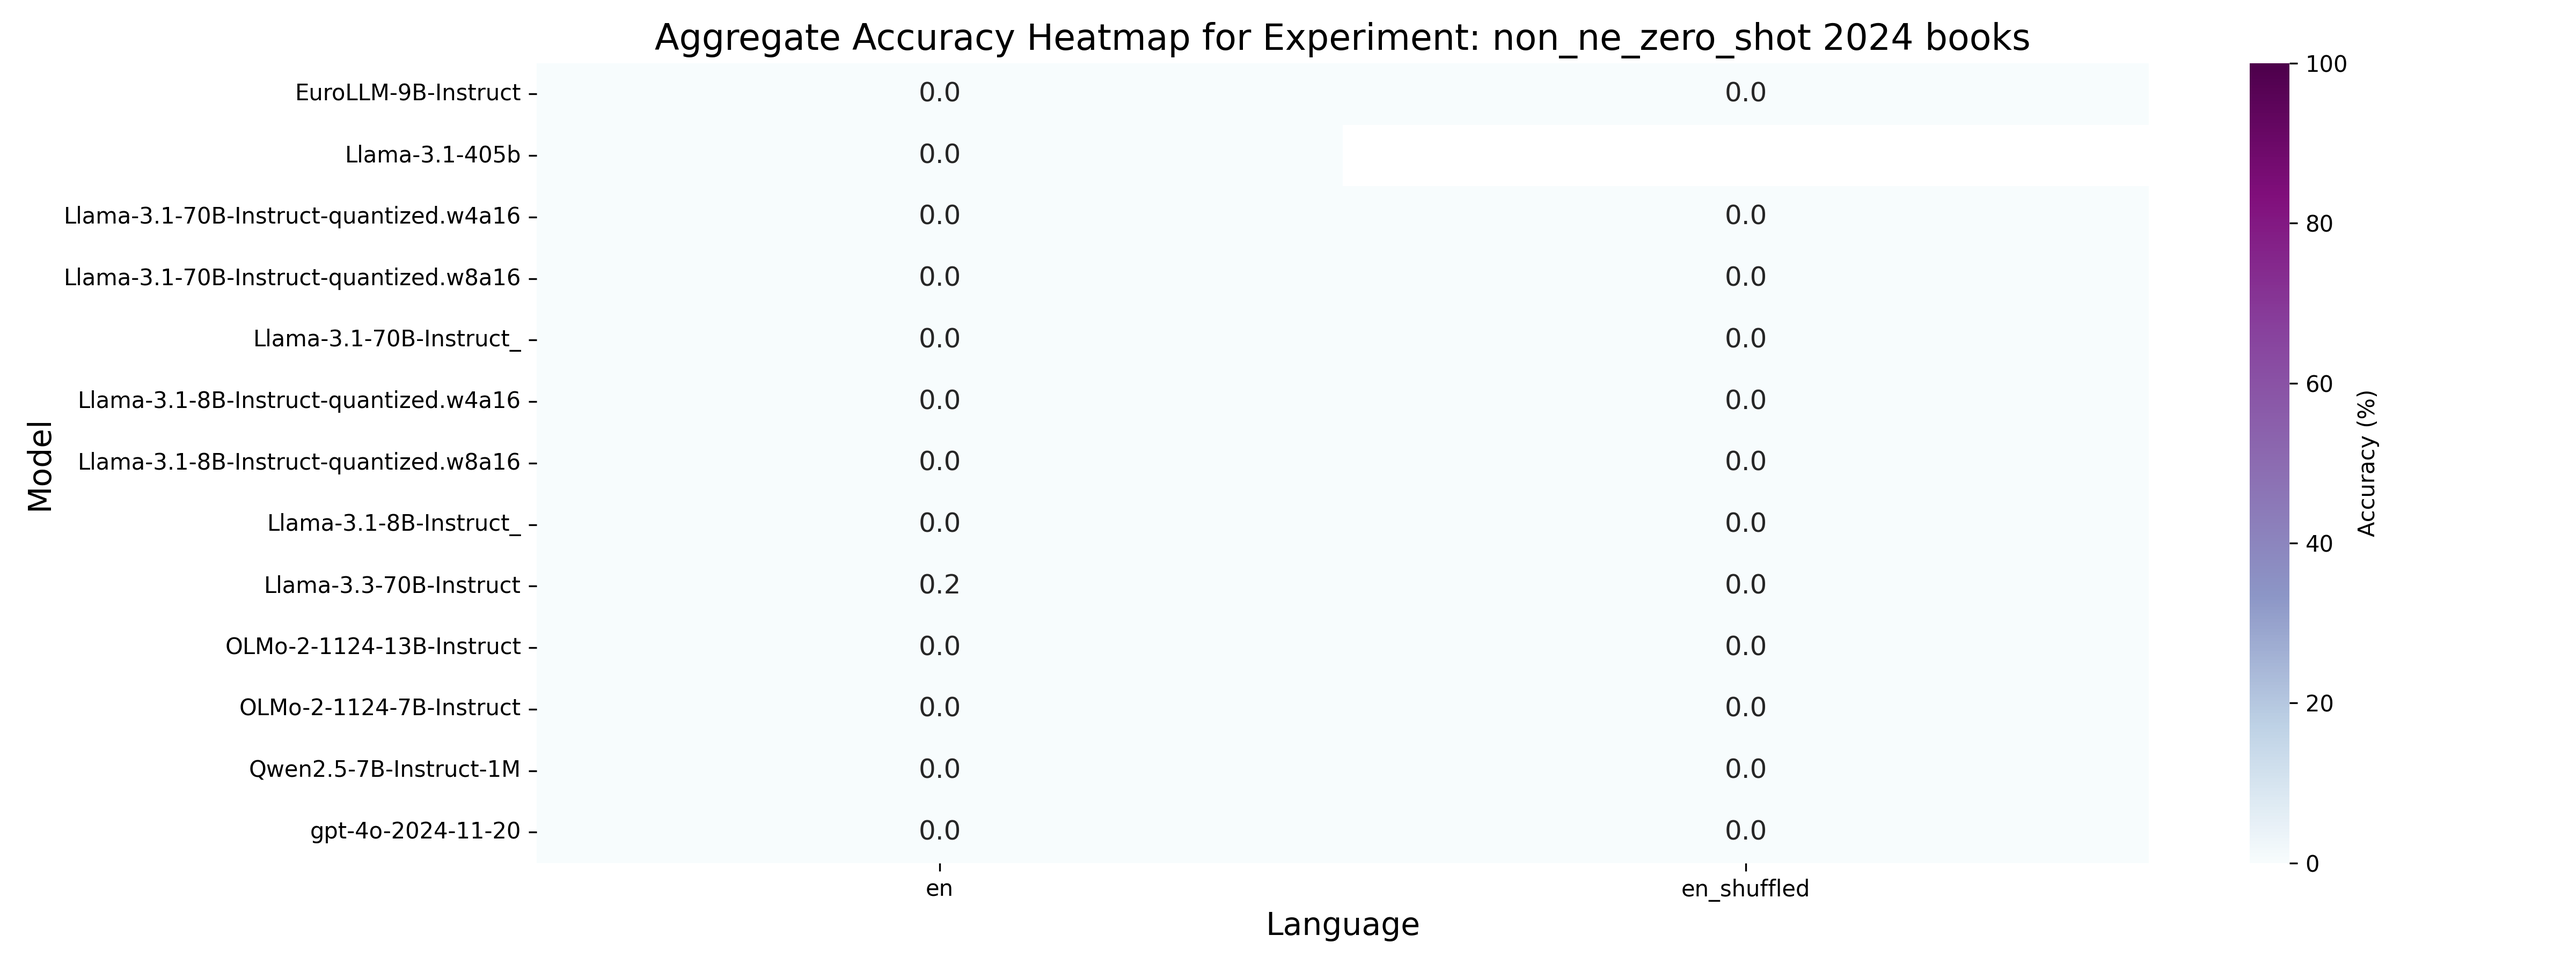
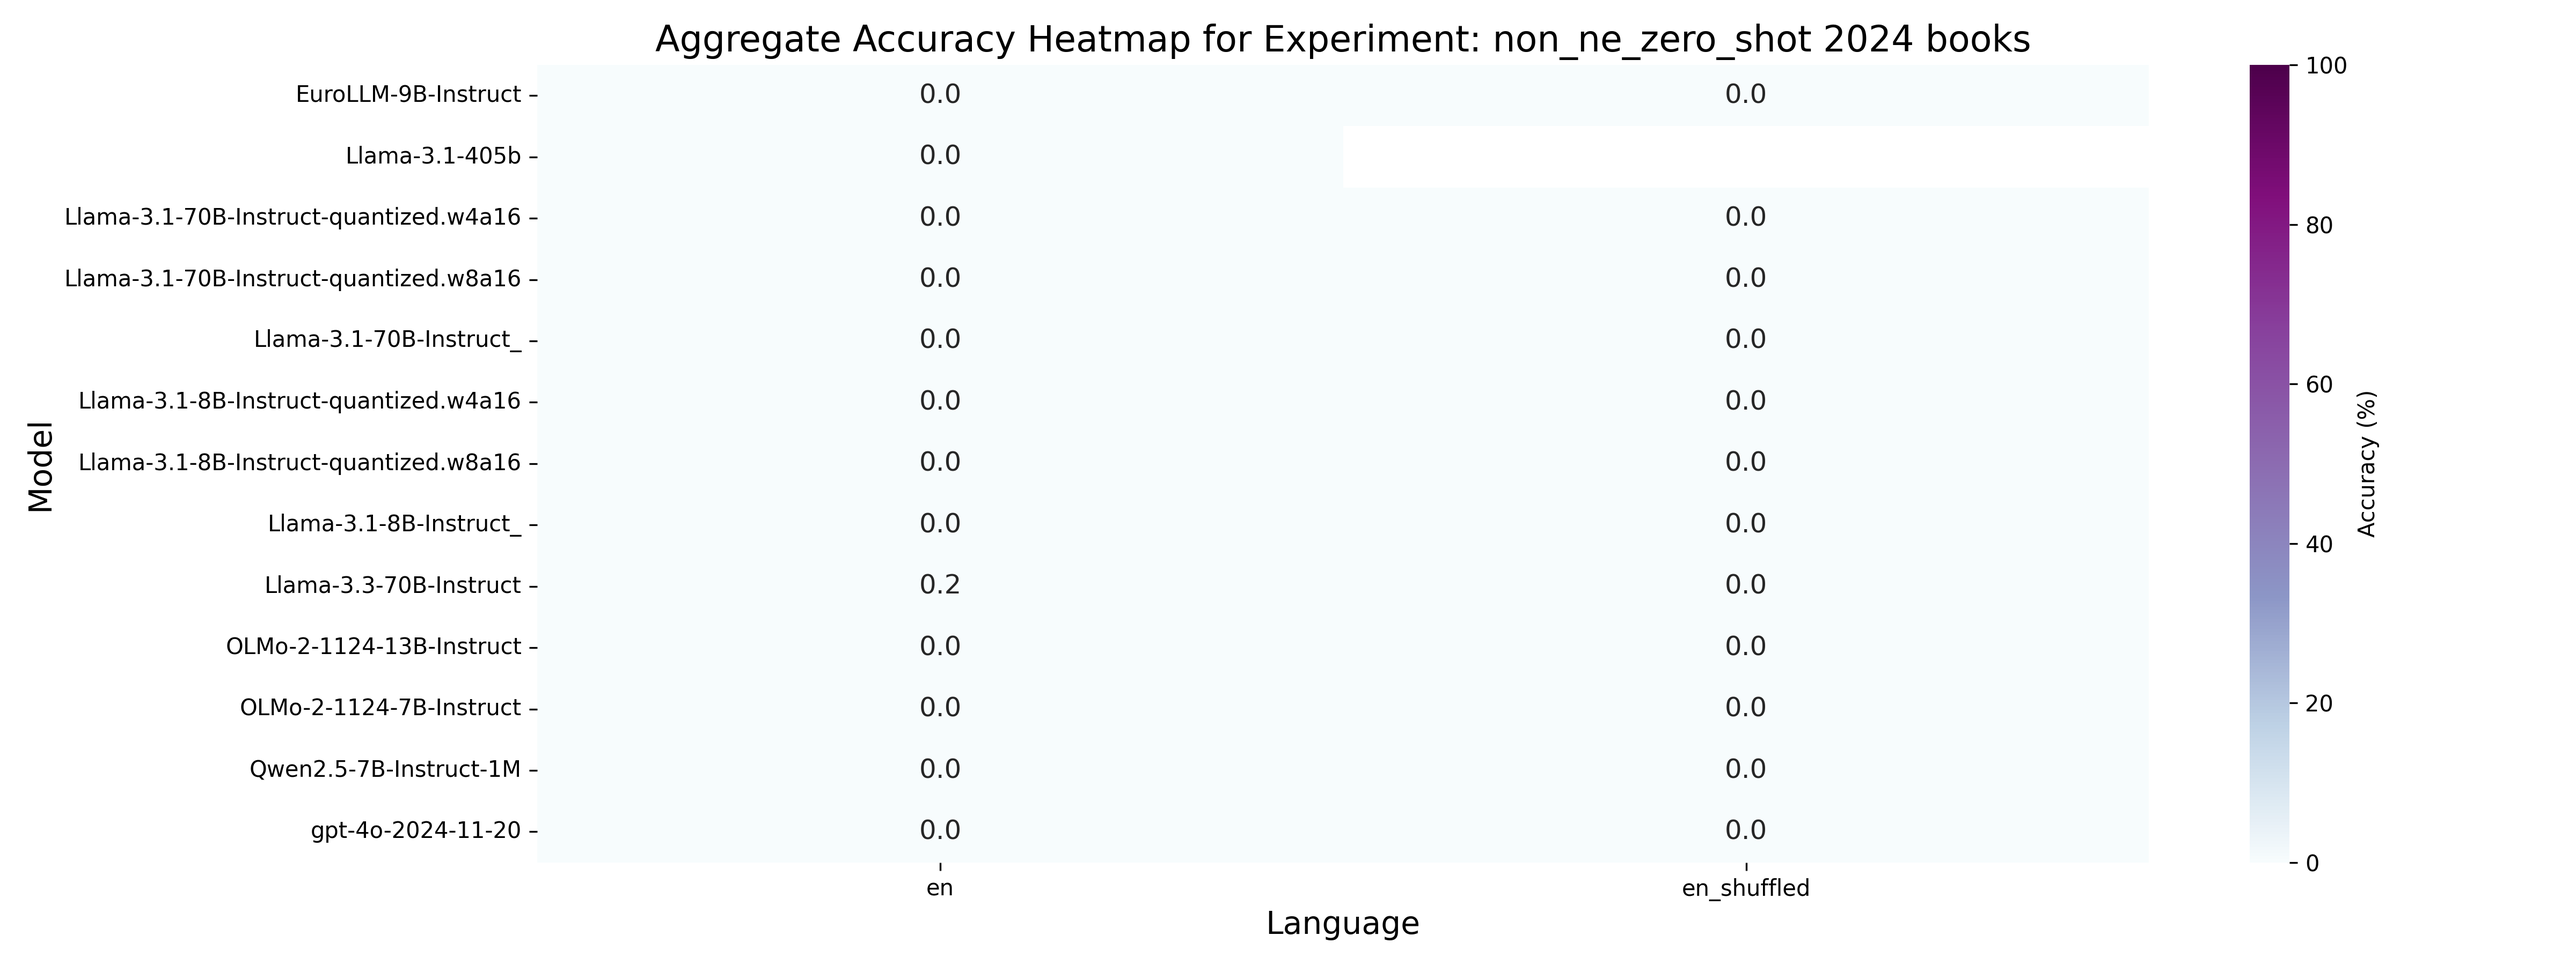
moddified aggregate dp heatmaps

diff --git a/scripts/Evaluation/analyses_graph/direct_probe/scripts/overall_heatmap.py b/scripts/Evaluation/analyses_graph/direct_probe/scripts/overall_heatmap.py
@@ -6,12 +6,12 @@ from matplotlib.colors import LinearSegmentedColormap
 
 # 📂 List of CSV files (modify this to include all your files)
 CSV_FILES = [
-    "scripts/Evaluation/analyses_graph/direct_probe/shuffled/os_shuffled_ne_aggregate_data_grouped.csv",
-    "scripts/Evaluation/analyses_graph/direct_probe/shuffled/os_shuffled_masked_aggregate_data_grouped.csv",
-    "scripts/Evaluation/analyses_graph/direct_probe/shuffled/os_shuffled_non_ne_aggregate_data_grouped.csv",
-    "scripts/Evaluation/analyses_graph/direct_probe/shuffled/zs_shuffled_ne_aggregate_data_grouped.csv",
-    "scripts/Evaluation/analyses_graph/direct_probe/shuffled/zs_shuffled_masked_aggregate_data_grouped.csv",
-    "scripts/Evaluation/analyses_graph/direct_probe/shuffled/zs_shuffled_non_ne_aggregate_data_grouped.csv"
+    "scripts/Evaluation/analyses_graph/direct_probe/og/os_ne_aggregate_data_grouped.csv",
+    "scripts/Evaluation/analyses_graph/direct_probe/og/os_masked_aggregate_data_grouped.csv",
+    "scripts/Evaluation/analyses_graph/direct_probe/og/os_non_ne_aggregate_data_grouped.csv",
+    "scripts/Evaluation/analyses_graph/direct_probe/og/zs_ne_aggregate_data_grouped.csv",
+    "scripts/Evaluation/analyses_graph/direct_probe/og/zs_masked_aggregate_data_grouped.csv",
+    "scripts/Evaluation/analyses_graph/direct_probe/og/zs_non_ne_aggregate_data_grouped.csv"
 ]
 
 # 📌 Define names for the Y-axis (modify this to match the CSV files)
@@ -25,7 +25,7 @@ Y_AXIS_NAMES = [
 ]
 
 # 📂 Output directory (where the heatmap and CSV will be saved)
-OUTPUT_DIR = "scripts/Evaluation/analyses_graphs/direct_probe/shuffled"
+OUTPUT_DIR = "scripts/Evaluation/analyses_graph/direct_probe/og"
 
 def create_aggregate_heatmap(csv_files, y_axis_names, output_dir):
     """
@@ -65,7 +65,7 @@ def create_aggregate_heatmap(csv_files, y_axis_names, output_dir):
     os.makedirs(output_dir, exist_ok=True)
 
     # Save aggregated data to CSV
-    csv_output_path = os.path.join(output_dir, "shuffled_aggregate_heatmap_data.csv")
+    csv_output_path = os.path.join(output_dir, "aggregate_heatmap_data.csv")
     agg_df.to_csv(csv_output_path, index=True)
     print(f"Saved CSV: {csv_output_path}")
 
@@ -86,7 +86,7 @@ def create_aggregate_heatmap(csv_files, y_axis_names, output_dir):
 
     plt.xlabel("Language Group", fontsize=14)
     plt.ylabel("Dataset", fontsize=14)
-    plt.title("Direct Probe: Shuffled Experiments by Aggregate Accuracy", fontsize=16)
+    plt.title("Direct Probe: Experiments by Aggregate Accuracy", fontsize=16)
 
     # Save heatmap
     heatmap_output_path = os.path.join(output_dir, "direct_probe_aggregate_accuracy_heatmap.png")

diff --git a/scripts/Evaluation/analyses_graph/direct_probe/scripts/aggregate_heatmap.py b/scripts/Evaluation/analyses_graph/direct_probe/scripts/aggregate_heatmap.py
@@ -5,16 +5,16 @@ import seaborn as sns
 from matplotlib.colors import LinearSegmentedColormap
 
 # Data location (where models are stored)
-DATA_BASE_DIR = '/Users/alishasrivastava/BEAM/results/direct_probe'
+DATA_BASE_DIR = 'results/direct_probe'
 
 # Output location (where heatmap & CSV should be saved)
-OUTPUT_DIR = '/Users/alishasrivastava/BEAM/scripts/Evaluation/analyses_graph/direct_probe/shuffled'
+OUTPUT_DIR = 'scripts/Evaluation/analyses_graph/direct_probe/og'
 
 # Define language groups
 LANG_GROUPS = {
-    "English": ["en_shuffled"],
-    "Translations": ["es_shuffled", "tr_shuffled", "vi_shuffled"],
-    "Cross-lingual": ["st_shuffled", "yo_shuffled", "tn_shuffled", "ty_shuffled", "mai_shuffled", "mg_shuffled"]
+    "English": ["en"],
+    "Translations": ["es", "tr", "vi"],
+    "Cross-lingual": ["st", "yo", "tn", "ty", "mai", "mg"]
 }
 
 def compute_language_group_accuracy(evaluated_df):
@@ -66,7 +66,7 @@ def create_grouped_heatmap(aggregate_dict, output_dir, filename_suffix, title_su
     os.makedirs(output_dir, exist_ok=True)
 
     # Save aggregate CSV
-    csv_filename = f"zs_shuffled_masked_aggregate_data_{filename_suffix}.csv"
+    csv_filename = f"zs_masked_aggregate_data_{filename_suffix}.csv"
     csv_path = os.path.join(output_dir, csv_filename)
     agg_df.to_csv(csv_path, index=True)
     print(f"Saved aggregate CSV: {csv_path}")
@@ -91,7 +91,7 @@ def create_grouped_heatmap(aggregate_dict, output_dir, filename_suffix, title_su
     plt.title(f"Direct Probe: Shuffled Masked Zero-Shot Accuracy", fontsize=16)
 
     # Save heatmap
-    heatmap_filename = f"zs_shuffled_masked_aggregate_heatmap_{filename_suffix}.png"
+    heatmap_filename = f"zs_masked_aggregate_heatmap_{filename_suffix}.png"
     heatmap_path = os.path.join(output_dir, heatmap_filename)
     plt.tight_layout()
     plt.savefig(heatmap_path, dpi=300)
